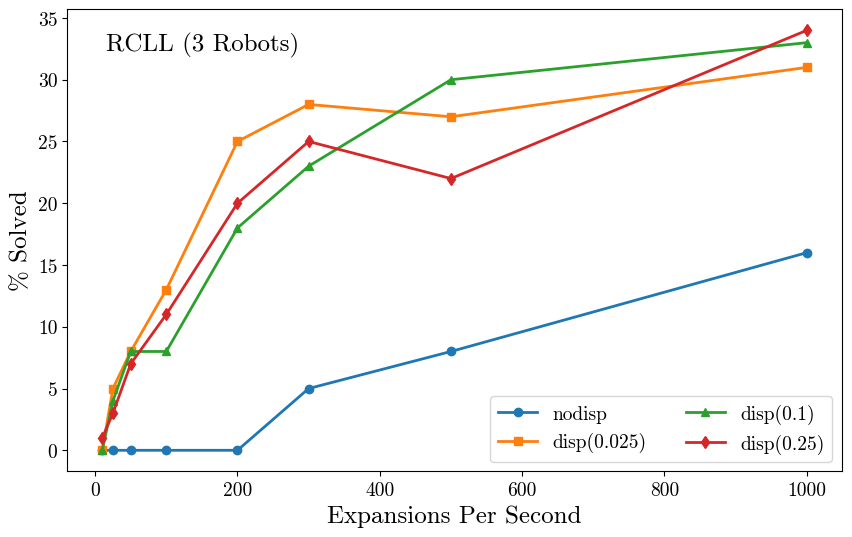
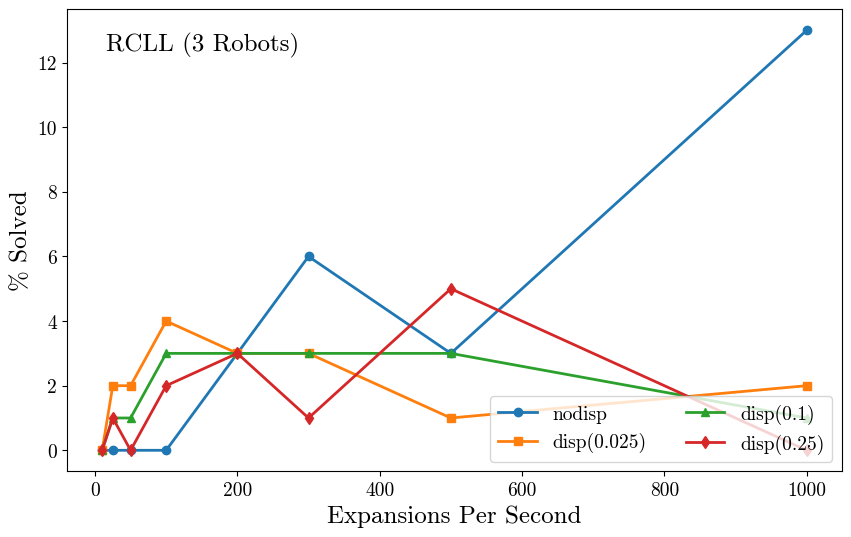
plots wip

diff --git a/_nodes_analysis/plots/SFT 10 DFS 1/_plots_general.py b/_nodes_analysis/plots/SFT 10 DFS 1/_plots_general.py
@@ -5,6 +5,7 @@ matplotlib.use('Agg')
 import matplotlib.pyplot as plt
 
 # Raw data
+# +
 data1 = {
     'EPS': [10, 25, 50, 100, 200, 300, 500, 1000],
     'nodisp': [0, 0, 3, 14, 29, 51, 70, 83],
@@ -12,7 +13,7 @@ data1 = {
     'disp(0.1)': [3, 14, 31, 60, 73, 70, 82, 89],
     'disp(0.25)': [3, 15, 30, 59, 68, 68, 82, 87]
 }
-
+# +
 data2 = {
     'EPS': [10, 25, 50, 100, 200, 300, 500, 1000],
     'nodisp': [0, 0, 1, 4, 12, 23, 39, 56],
@@ -20,7 +21,7 @@ data2 = {
     'disp(0.1)': [4, 10, 24, 27, 24, 26, 32, 41],
     'disp(0.25)': [3, 11, 24, 27, 24, 26, 29, 42]
 }
-
+# +
 data3 = {
     'EPS': [10, 25, 50, 100, 200, 300, 500, 1000],
     'nodisp': [0, 0, 0, 0, 0, 5, 8, 16],  # Updated values
@@ -28,7 +29,7 @@ data3 = {
     'disp(0.1)': [0, 4, 8, 8, 18, 23, 30, 33],  # Updated values
     'disp(0.25)': [1, 3, 7, 11, 20, 25, 22, 34]  # Updated values
 }
-
+# +
 data4 = {
     'EPS': [10, 25, 50, 100, 200, 300, 500, 1000],
     'nodisp': [100, 100, 100, 100, 100, 100, 100, 100],
@@ -36,7 +37,7 @@ data4 = {
     'disp(0.1)': [100, 100, 100, 100, 100, 100, 100, 100],
     'disp(0.25)': [100, 100, 100, 100, 100, 100, 100, 100],
 }
-
+# +
 data5 = {
     'EPS': [10, 25, 50, 100, 200, 300, 500, 1000],
     'nodisp': [100, 100, 100, 100, 100, 100, 100, 100],

diff --git a/_nodes_analysis/plots/SFT 1 DFS 1/_plots_general.py b/_nodes_analysis/plots/SFT 1 DFS 1/_plots_general.py
@@ -22,14 +22,15 @@ data2 = {
     'disp(0.25)': [2, 2, 2, 8, 14, 7, 7, 9]  # Updated values
 }
 
-
+# +
 data3 = {
     'EPS': [10, 25, 50, 100, 200, 300, 500, 1000],
-    'nodisp': [0, 0, 0, 0, 0, 5, 8, 16],  # Updated values
-    'disp(0.025)': [0, 5, 8, 13, 25, 28, 27, 31],  # Updated values
-    'disp(0.1)': [0, 4, 8, 8, 18, 23, 30, 33],  # Updated values
-    'disp(0.25)': [1, 3, 7, 11, 20, 25, 22, 34]  # Updated values
+    'nodisp': [0, 0, 0, 0, 3, 6, 3, 13],  # Updated values
+    'disp(0.025)': [0, 2, 2, 4, 3, 3, 1, 2],  # Updated values
+    'disp(0.1)': [0, 1, 1, 3, 3, 3, 3, 1],  # Updated values
+    'disp(0.25)': [0, 1, 0, 2, 3, 1, 5, 0]  # Updated values
 }
+
 # +
 data4 = {
     'EPS': [10, 25, 50, 100, 200, 300, 500, 1000],
